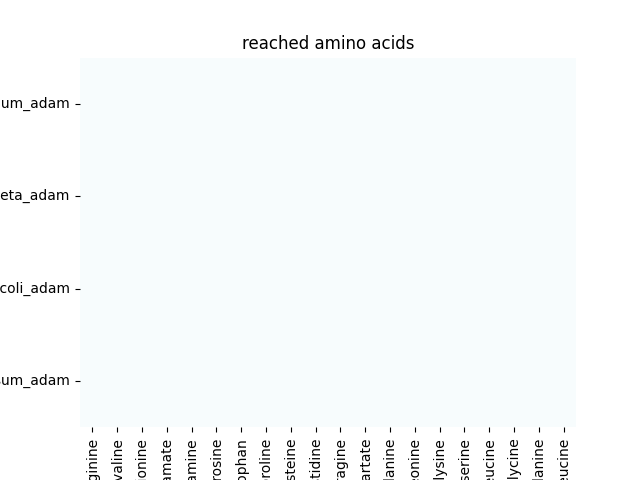
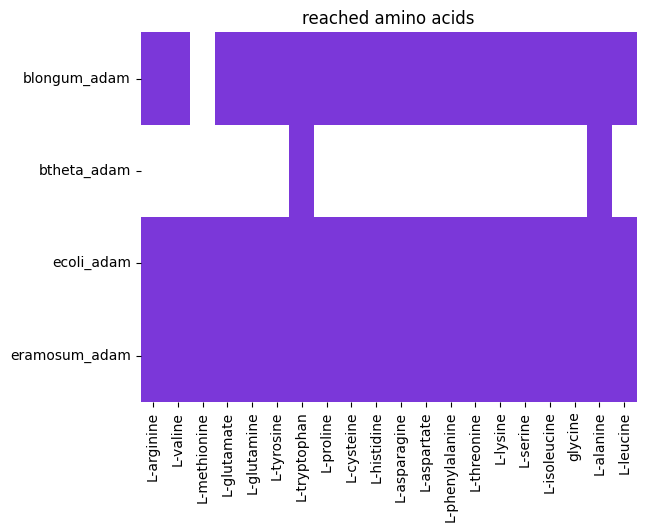
finished vis for wp3

diff --git a/src/wp3.py b/src/wp3.py
@@ -186,37 +186,41 @@ def plot_component_size(connected_comp_sizes: dict[SpeciesMediumCombination, dic
     plt.savefig("output/plots/component_sizes_avg_median_bar_plot.png")
 
 
-def plot_reached_aa(reached_aa: dict[SpeciesMediumCombination: Tuple[list[str],list[str]]]):
+def plot_no_of_reached_compounds(reached_compounds: dict[SpeciesMediumCombination: Tuple[list[str],list[str]]]):
+    plt.clf()
+    number_comp = []
+    for c in reached_compounds.values():
+        number_comp.append(len(c[0]))
+    plt.bar(combination, number_comp, color=LILA[3])
+    plt.xlabel("species and media")
+    plt.ylabel("number of fully reached components")
 
+    plt.savefig("output/plots/no_of_reached_compounds_bar_plot.png", bbox_inches="tight")
+
+def plot_reached_aa(reached_aa: dict[SpeciesMediumCombination: Tuple[list[str],list[str]]]):
+    plt.clf()
     number_aa = []
     number_aa_noCO2 = []
     df = pd.DataFrame([([0] * len(AMINO_ACIDS)) for i in range(len(combination))], columns = AMINO_ACIDS, index = combination)
     for c in combination:
         aa, aa_noCO2 = reached_aa[c]
         number_aa.append(len(aa))
-        number_aa_noCO2.append(len(aa_noCO2))
         for a in AMINO_ACIDS:
-            if a in reached_aa[c]:
+            if a in aa:
                 df[a][c] = 1
+
+    plt.bar(combination, number_aa, color=LILA[3])
+    plt.xlabel("species and media")
+    plt.ylabel("number of reached amino acids")
+    plt.yticks(np.arange(0, 21, step=5))
+
+    plt.savefig("output/plots/no_of_reached_aa_bar_plot.png", bbox_inches="tight")
 
     # heatmap that shows which amino acids are synthesized per combination
     plt.title("reached amino acids")
-    sns.heatmap(df, cbar=False, cmap="BuPu")
+    sns.heatmap(df, cbar=False, cmap=["#FFFFFF", LILA[3]])
     # TODO: Plot beschriftung schöner machen
-    plt.savefig("output/plots/species_medium_aa_heatmap_atn.png")
-
-    # plot just average and median
-    x_axis = np.arange(len(reached_aa.keys()))
-    plt.bar(x_axis - 0.2, number_aa, 0.4, label="with CO2")
-    plt.bar(x_axis + 0.2, number_aa_noCO2, 0.4, label="without CO2")
-
-    plt.xlabel("species and media")
-    plt.ylabel("number of amino acids")
-    plt.xticks(x_axis, number_aa)
-    plt.yticks(np.arange(100, 1501, step=200))
-    plt.legend()
-
-    plt.savefig("output/plots/reached_aa_compare_bar_plot.png")
+    plt.savefig("output/plots/species_medium_aa_heatmap_atn.png", bbox_inches="tight")
 
 
 
@@ -269,6 +273,7 @@ if __name__ == "__main__":
     
     # Plot number of reached amino acids and conected components
     plot_reached_aa(reached_AS)
+    plot_no_of_reached_compounds(reached_compounds)
 
     # Plot number and size of connected components
     plot_no_of_components(no_connected_comp)
